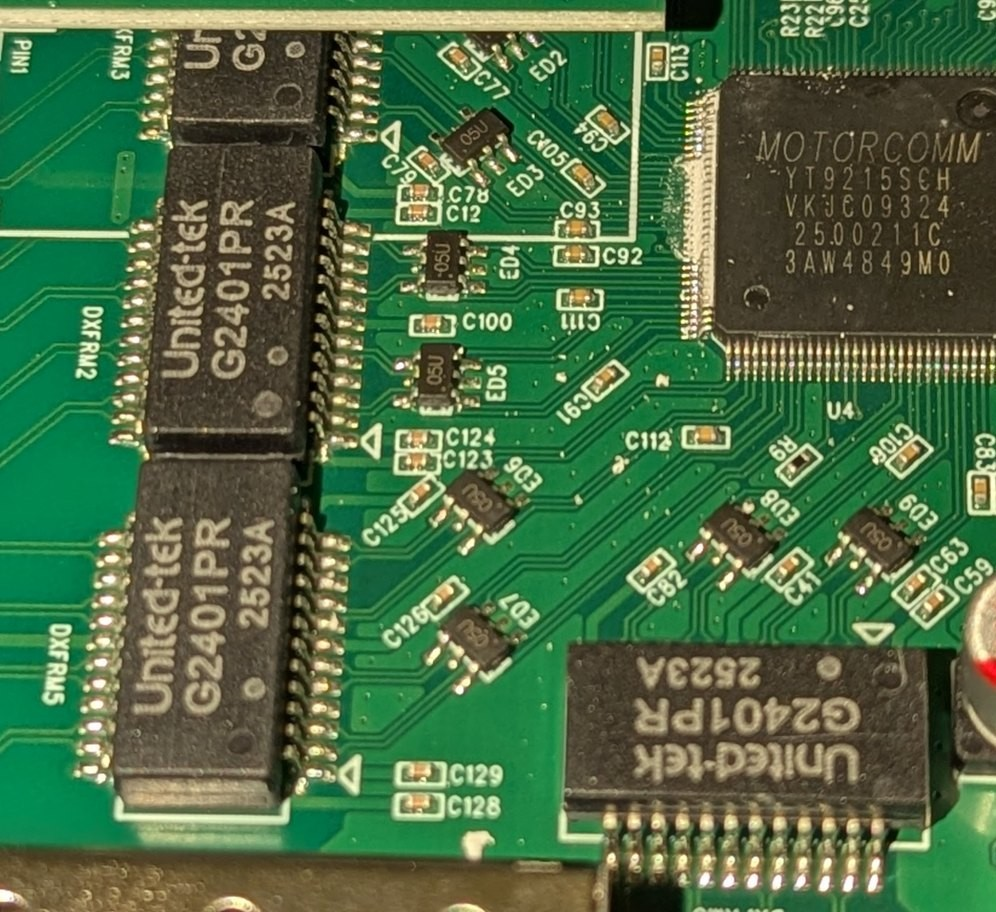
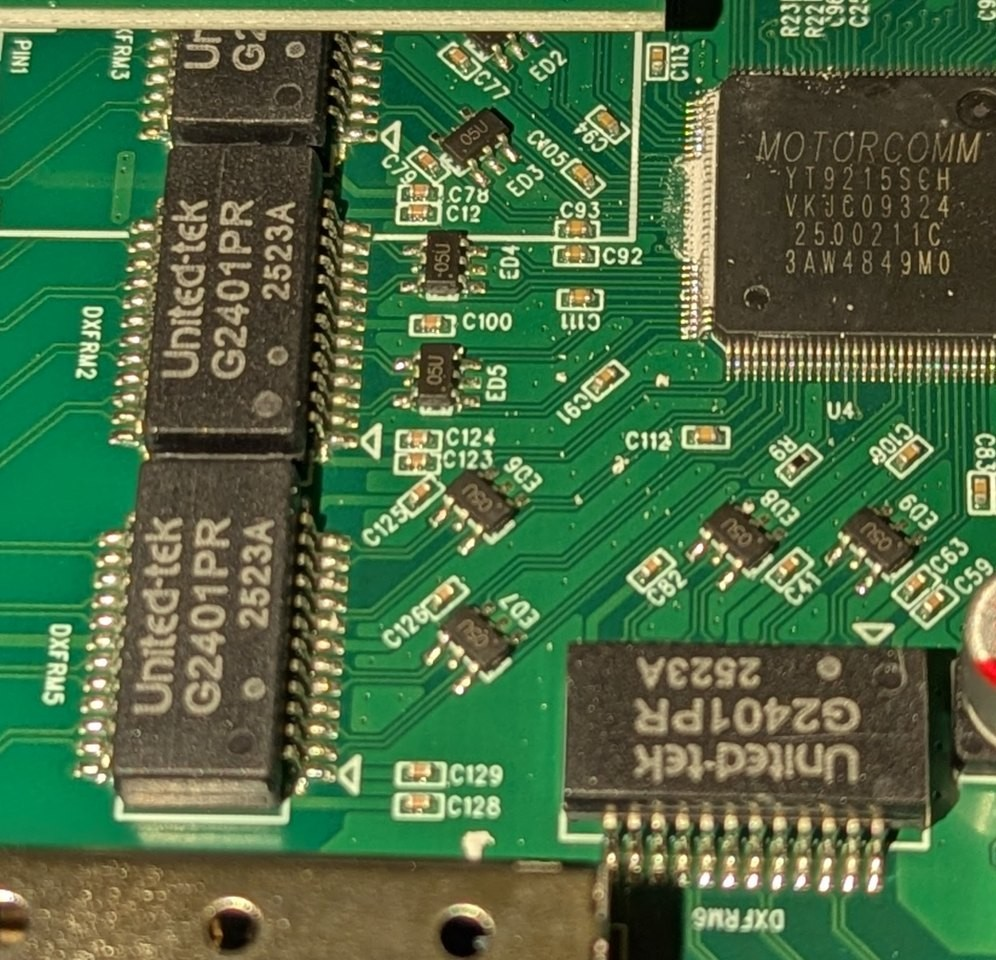
Strapping doc: fix evidence links found in review
Claude-Session: https://claude.ai/code/session_01T8XQLsBZHaZZPeQHPsJ8Pv

diff --git a/research/lx-is601f-board/crop_photos.py b/research/lx-is601f-board/crop_photos.py
@@ -13,7 +13,7 @@ HERE = Path(__file__).parent
 CROPS = {
     "crop-board-b-power-input.jpg": ("photo-board-b-top.jpg", (1376, 0, 2176, 704)),
     "crop-board-b-switch-ic.jpg": ("photo-board-b-top.jpg", (1344, 384, 2176, 1440)),
-    "crop-board-b-magnetics.jpg": ("photo-board-b-top.jpg", (704, 560, 1700, 1472)),
+    "crop-board-b-magnetics.jpg": ("photo-board-b-top.jpg", (704, 560, 1700, 1520)),
     "crop-board-a-regulator.jpg": ("photo-u4-wide.jpg", (1877, 1687, 3072, 4080)),
     "crop-board-a-power-input.jpg": ("photo-u4-wide.jpg", (925, 0, 3072, 1741)),
     "crop-board-a-led-esd.jpg": ("photo-u4-wide.jpg", (0, 0, 1000, 1224)),

diff --git a/research/switch-board-strapping.md b/research/switch-board-strapping.md
@@ -153,7 +153,7 @@ not show which of the two photographed boards it is, so the table is for one boa
 | <a id="lx-pin-47"></a>47 | [RESERVED_0](../datasheets/motorcomm/YT9215SCH_Datasheet_V1.03_2025-02-10.pdf#page=29) | No trace leaves the pin | <a href="#tag-r">R</a> | <a href="#lx-photo-u4-close-up">U4 close-up</a> | Pull-up | 1 | <a href="#tag-i">I</a> | – |
 | <a id="lx-pin-48"></a>48 | [RESERVED_1](../datasheets/motorcomm/YT9215SCH_Datasheet_V1.03_2025-02-10.pdf#page=29) | Not traced | <a href="#tag-u">U</a> | – | Pull-up | 1 | <a href="#tag-i">I</a> | – |
 | <a id="lx-pin-50"></a>50 | [RESERVED_2](../datasheets/motorcomm/YT9215SCH_Datasheet_V1.03_2025-02-10.pdf#page=29) | <a id="lx-r92"></a>R92 | <a href="#tag-r">R</a> | <a href="#lx-photo-board-a-regulator">Board A regulator</a> | Pull-down | Not known | <a href="#tag-u">U</a> | – |
-| <a id="lx-pin-49"></a>49 | [SPF_MUX_SEL](../datasheets/motorcomm/YT9215SCH_Datasheet_V1.03_2025-02-10.pdf#page=28) | <a id="lx-r93"></a>R93 | <a href="#tag-r">R</a> | <a href="#lx-photo-board-a-top">Board A top</a> | Pull-down | Not known | <a href="#tag-u">U</a> | Flash pin group |
+| <a id="lx-pin-49"></a>49 | [SPF_MUX_SEL](../datasheets/motorcomm/YT9215SCH_Datasheet_V1.03_2025-02-10.pdf#page=28) | <a id="lx-r93"></a>R93 | <a href="#tag-r">R</a> | <a href="#lx-photo-board-a-regulator">Board A regulator</a> | Pull-down | Not known | <a href="#tag-u">U</a> | Flash pin group |
 | <a id="lx-pin-54"></a>54 | [SPF0_SO](../datasheets/motorcomm/YT9215SCH_Datasheet_V1.03_2025-02-10.pdf#page=25) | <a id="lx-r89"></a>R89 | <a href="#tag-r">R</a> | <a href="#lx-photo-board-a-regulator">Board A regulator</a> | Pull-up | – | – | Not a strap |
 | <a id="lx-pin-55"></a>55 | [SPF0_CS](../datasheets/motorcomm/YT9215SCH_Datasheet_V1.03_2025-02-10.pdf#page=25) | <a id="lx-r44"></a>R44 | <a href="#tag-r">R</a> | <a href="#lx-photo-board-a-regulator">Board A regulator</a> | Pull-up | – | – | Not a strap |
 | <a id="lx-pin-60"></a>60 | [EN_SWR](../datasheets/motorcomm/YT9215SCH_Datasheet_V1.03_2025-02-10.pdf#page=28) | Not traced | <a href="#tag-u">U</a> | – | None | 1 | <a href="#tag-i">I</a> | Internal regulator on |
@@ -233,11 +233,11 @@ are active low.
 | <a id="lx-pl3"></a>PL3 | <a href="#tag-r">R</a> | Buck inductor | – | `100` | SMD | 10 µH | – | A | Top | <a href="#lx-photo-board-a-regulator">Board A regulator</a> | – | – |
 | <a id="lx-d40"></a>D40 | <a href="#tag-r">R</a> | Buck catch diode | SS310 | `LGE SS310` | SMA | 3 A | 100 V | A | Top | <a href="#lx-photo-board-a-regulator">Board A regulator</a> | [PDF](../datasheets/components/LGE_SS32-SS320_Series.pdf) | [C432297](https://www.lcsc.com/product-detail/C432297.html) |
 | <a id="lx-tc1"></a>TC1 | <a href="#tag-r">R</a> | Buck output capacitor | – | `220 16V` | Aluminium can | 220 µF | 16 V | B | Top | <a href="#lx-photo-board-b-switch-ic">Board B switch IC</a> | – | – |
-| <a id="lx-l3"></a>L3 | <a href="#tag-i">I</a> | Core regulator inductor | – | `4R7` | SMD | 4.7 µH | – | B | Top | <a href="#lx-photo-board-b-switch-ic">Board B switch IC</a> | – | – |
+| <a id="lx-l3"></a>L3 | <a href="#tag-i">I</a> | Core regulator inductor | – | `4R7` | SMD | 4.7 µH | – | A | Top | <a href="#lx-photo-board-a-power-input">Board A power input</a> | – | – |
 | <a id="lx-c4"></a>C4 | <a href="#tag-r">R</a> | Input capacitor | – | `YX 47 63V` | Aluminium can | 47 µF | 63 V | A | Top | <a href="#lx-photo-board-a-power-input">Board A power input</a> | – | – |
 | <a id="lx-c4-b"></a>C4 | <a href="#tag-r">R</a> | Input capacitor | – | `22 63V EMB` | Aluminium can | 22 µF | 63 V | B | Top | <a href="#lx-photo-board-b-power-input">Board B power input</a> | – | – |
 | <a id="lx-choke"></a>Not legible | <a href="#tag-u">U</a> | Input choke | – | `701` | SMD | – | – | B | Top | <a href="#lx-photo-board-b-power-input">Board B power input</a> | – | – |
-| <a id="lx-d4"></a>D4 | <a href="#tag-r">R</a> | Input diode | SS510 | `LGE SS510` | SMA | 5 A | 100 V | B | Top | <a href="#lx-photo-board-b-power-input">Board B power input</a> | [PDF](../datasheets/components/LGE_SS52-SS520_Series.pdf) | [C432296](https://www.lcsc.com/product-detail/C432296.html) |
+| <a id="lx-d4"></a>D4 | <a href="#tag-r">R</a> | Input diode | SS510 | `LGE SS510` | SMA | 5 A | 100 V | A | Top | <a href="#lx-photo-board-a-power-input">Board A power input</a> | [PDF](../datasheets/components/LGE_SS52-SS520_Series.pdf) | [C432296](https://www.lcsc.com/product-detail/C432296.html) |
 | <a id="lx-d5"></a>D5 | <a href="#tag-r">R</a> | Input diode | SS510 | `LGE SS510` | SMA | 5 A | 100 V | B | Top | <a href="#lx-photo-board-b-power-input">Board B power input</a> | [PDF](../datasheets/components/LGE_SS52-SS520_Series.pdf) | [C432296](https://www.lcsc.com/product-detail/C432296.html) |
 | <a id="lx-p4"></a>P4 | <a href="#tag-r">R</a> | Power input | – | – | 2-pin through-hole header | – | – | B | Top | <a href="#lx-photo-board-b-power-input">Board B power input</a> | – | – |
 | <a id="lx-dxfrm1"></a>DXFRM1 | <a href="#tag-r">R</a> | Port magnetics footprint | – | – | Not visible | – | – | B | Top | <a href="#lx-photo-board-b-top">Board B top</a> | – | – |
@@ -246,7 +246,7 @@ are active low.
 | <a id="lx-dxfrm5"></a>DXFRM5 | <a href="#tag-r">R</a> | Port magnetics | G2401PR | `United-tek G2401PR` | SMD 24-pin | – | – | B | Top | <a href="#lx-photo-board-b-magnetics">Board B magnetics</a> | [Similar part](../datasheets/components/Usakro_UKG2401PR.pdf) | – |
 | <a id="lx-dxfrm6"></a>DXFRM6 | <a href="#tag-r">R</a> | Port magnetics | G2401PR | `United-tek G2401PR` | SMD 24-pin | – | – | B | Top | <a href="#lx-photo-board-b-magnetics">Board B magnetics</a> | [Similar part](../datasheets/components/Usakro_UKG2401PR.pdf) | – |
 | <a id="lx-ed1"></a>ED1 | <a href="#tag-r">R</a> | ESD array | Not identified | `05U` | SOT-23-6 | – | – | A | Top | <a href="#lx-photo-board-a-led-esd">Board A LED and ESD arrays</a> | – | – |
-| <a id="lx-ed2"></a>ED2 | <a href="#tag-r">R</a> | ESD array | Not identified | `05U` | SOT-23-6 | – | – | B | Top | <a href="#lx-photo-board-b-magnetics">Board B magnetics</a> | – | – |
+| <a id="lx-ed2"></a>ED2 | <a href="#tag-r">R</a> | ESD array | Not identified | Hidden | SOT-23-6 | – | – | B | Top | <a href="#lx-photo-board-b-magnetics">Board B magnetics</a> | – | – |
 | <a id="lx-ed3"></a>ED3 | <a href="#tag-r">R</a> | ESD array | Not identified | `05U` | SOT-23-6 | – | – | B | Top | <a href="#lx-photo-board-b-magnetics">Board B magnetics</a> | – | – |
 | <a id="lx-ed4"></a>ED4 | <a href="#tag-r">R</a> | ESD array | Not identified | `05U` | SOT-23-6 | – | – | B | Top | <a href="#lx-photo-board-b-magnetics">Board B magnetics</a> | – | – |
 | <a id="lx-ed5"></a>ED5 | <a href="#tag-r">R</a> | ESD array | Not identified | `05U` | SOT-23-6 | – | – | B | Top | <a href="#lx-photo-board-b-magnetics">Board B magnetics</a> | – | – |
@@ -307,10 +307,10 @@ columns point at the catalogue part that matches the marking, not at a known pur
   Four transformer bodies are visible in <a href="#lx-photo-board-b-top">Board B top</a>. <a href="#lx-dxfrm3">DXFRM3</a> is partly under the PoE module, so its marking is only partly
   legible and its part is inferred. The <a href="#lx-dxfrm1">DXFRM1</a> silkscreen has no visible body beside it, and an unreadable
   label next to it in <a href="#lx-photo-board-b-top">Board B top</a> may be DXFRM4.
-- The <a href="#lx-l3">L3</a> silkscreen is partly hidden by <a href="#lx-c4">C4</a> in both <a href="#lx-photo-board-a-power-input">Board A power input</a> and <a href="#lx-photo-board-b-switch-ic">Board B switch IC</a>, so that designator is inferred.
+- The <a href="#lx-l3">L3</a> silkscreen is partly covered by the inductor body in <a href="#lx-photo-board-a-power-input">Board A power input</a> and is not visible in <a href="#lx-photo-board-b-switch-ic">Board B switch IC</a>, so that designator is inferred.
 - <a href="#lx-c4">C4</a> differs between the two boards, so it has one row per board.
 - No datasheet is available for the `05U` ESD arrays (<a href="#lx-ed1">ED1</a> to <a href="#lx-ed10">ED10</a>), the `2184A` PSE controller (<a href="#lx-module-u1">module U1</a>) or the `2616 RGS` diodes (<a href="#lx-module-d1">module D1</a> to <a href="#lx-module-d7">D7</a> and the <a href="#lx-module-d-unlabelled">unlabelled fifth diode</a>).
-- Second marking lines are date or lot codes: `533AQ1H` on <a href="#lx-module-u1">module U1</a> (<a href="#lx-photo-poe-module">PoE module</a>) and `2523A` on the <a href="#lx-dxfrm2">G2401PR parts</a> (<a href="#lx-photo-board-b-top">Board B top</a>).
+- Second marking lines are date or lot codes: `533AQ1H` on <a href="#lx-module-u1">module U1</a> (<a href="#lx-photo-poe-module">PoE module</a>) and `2523A` on the <a href="#lx-dxfrm2">G2401PR parts</a> (<a href="#lx-photo-board-b-magnetics">Board B magnetics</a>).
 - The two photographed boards differ in fitted parts. Board A (<a href="#lx-photo-board-a-top">Board A top</a>) has no PoE module fitted. Board B (<a href="#lx-photo-board-b-top">Board B top</a>) has the
   PoE module and the SFP cage. <a href="#lx-photo-board-a-top">Board A top</a> does not show the SFP area of board A.
 
@@ -323,7 +323,7 @@ for the SFP connector, RV1 to RV3 for the three blue disc parts, and five transf
 transformer bodies, so the fifth is taken to be under the PoE module.
 
 - Three blue radial disc parts stand beside <a href="#lx-p4">P4</a> (<a href="#lx-photo-board-b-power-input">Board B power input</a>). They are taken to be surge protection parts on the power input.
-- An array of LEDs sits along the board edge beside G1, under the edge of the PoE module (<a href="#lx-photo-board-a-led-esd">Board A LED and ESD arrays</a> and <a href="#lx-photo-poe-module">PoE module</a>). The
+- An array of LEDs sits along the board edge beside G1 (<a href="#lx-photo-board-a-led-esd">Board A LED and ESD arrays</a>). On board B the edge of the PoE module covers it. The
   silkscreen at the array reads RJ7 to RJ18, which the [schematic notes](lx-is601f-board/schematic/README.md) take to be the names of the LEDs.
 - A group of option footprints sits next to <a href="#lx-u6">U6</a> on the bottom side and is partly populated (<a href="#lx-photo-bottom-eeprom-flash">Bottom EEPROM and flash</a>).
 

diff --git a/research/lx-is601f-board/README.md b/research/lx-is601f-board/README.md
@@ -18,8 +18,8 @@ the pin tables of both parts, and the route of each debug pin on this board, are
 | <a href="#photo-board-a-top">Board A top</a> | [`photo-u4-wide.jpg`](photo-u4-wide.jpg) | Source photo | A | Top | Area around [U4](../switch-board-strapping.md#major-components) |
 | <a href="#photo-board-b-top">Board B top</a> | [`photo-board-b-top.jpg`](photo-board-b-top.jpg) | Source photo | B | Top | Whole board |
 | <a href="#photo-bottom-under-u4">Bottom under U4</a> | [`photo-bottom-under-u4.jpg`](photo-bottom-under-u4.jpg) | Source photo | Not known | Bottom | Area under [U4](../switch-board-strapping.md#major-components) with the strap resistor array |
-| <a href="#photo-poe-module">PoE module</a> | [`photo-poe-module.jpg`](photo-poe-module.jpg) | Source photo | B | Top | Plug-in PoE module |
-| <a href="#photo-poe-module-crop">PoE module crop</a> | [`crop-poe-module.jpg`](crop-poe-module.jpg) | Area crop | B | Top | Plug-in PoE module |
+| <a href="#photo-poe-module">PoE module wide view</a> | [`photo-poe-module.jpg`](photo-poe-module.jpg) | Source photo | B | Top | Plug-in PoE module with the parts around it |
+| <a href="#photo-poe-module-crop">PoE module</a> | [`crop-poe-module.jpg`](crop-poe-module.jpg) | Area crop | B | Top | Plug-in PoE module |
 | <a href="#photo-board-b-power-input">Board B power input</a> | [`crop-board-b-power-input.jpg`](crop-board-b-power-input.jpg) | Area crop | B | Top | Power input parts |
 | <a href="#photo-board-b-switch-ic">Board B switch IC</a> | [`crop-board-b-switch-ic.jpg`](crop-board-b-switch-ic.jpg) | Area crop | B | Top | [U4](../switch-board-strapping.md#major-components) with the parts beside it |
 | <a href="#photo-board-b-magnetics">Board B magnetics</a> | [`crop-board-b-magnetics.jpg`](crop-board-b-magnetics.jpg) | Area crop | B | Top | Port magnetics with ESD arrays |
@@ -78,13 +78,13 @@ strap resistors are explained in [`../switch-board-strapping.md`](../switch-boar
 
 <a id="photo-poe-module"></a>
 
-**PoE module**
+**PoE module wide view**
 
 ![PoE module on board B](photo-poe-module.jpg)
 
 <a id="photo-poe-module-crop"></a>
 
-**PoE module crop**
+**PoE module**
 
 ![PoE module on board B](crop-poe-module.jpg)
 
